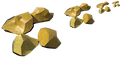
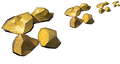
Icone de la monazite : composition G apres critique independante (30/10)
Matieres de la famille du gisement corrige (or_v, ambre a la place du soufre, miel_v),
bord sombre des silhouettes (--bord 5) et niveaux remis sur le vanilla (--niveaux 0.09,0.82) :
5e centile 0,16 -> 0,08, ecart-type 0,210 -> 0,223 (fer 0,233). Couverture inchangee (0,48).
Critique : fo-logs/2026-10-30_RETOUR-MATIN/ICONES-MINERAIS/monazite/CRITIQUE.md

diff --git a/tools/render/pieces/ressources/icones_monazite.py b/tools/render/pieces/ressources/icones_monazite.py
@@ -76,13 +76,48 @@ def avec_liseré(main, ao, px):
     return P.over(main, fr)
 
 
-def post(compo, travail, sortie, fill, liseré=3):
+def avec_bord(main, px, force):
+    """Bord sombre des silhouettes (critique de l'icône, 30/10 vers 12 h) : les morceaux des icônes vanilla ont un bord
+    extérieur sombre (5e centile de luminance 0,08 à 0,11 ; F : 0,15) qui les détache de la fente grise à 32 px ; les
+    rognons de F fondaient par leurs bords éclairés (haut, gauche). Sur `px` pixels HR depuis le bord de l'alpha, la
+    couleur est assombrie d'au plus `force` (en lumière linéaire), en rampe ; l'alpha ne change pas."""
+    a8 = Image.fromarray((np.clip(main[..., 3], 0, 1) * 255).astype(np.uint8), "L")
+    rampe = np.zeros(main.shape[:2])
+    for k in range(1, px + 1):
+        er = np.asarray(a8.filter(ImageFilter.MinFilter(2 * k + 1))).astype(np.float64) / 255.0
+        rampe += (main[..., 3] - er).clip(0, 1) / px
+    f = 1.0 - force * rampe.clip(0, 1)
+    lin = P.srgb_to_lin(main[..., :3]) * f[..., None]
+    return np.concatenate([P.lin_to_srgb(lin), main[..., 3:4]], -1)
+
+
+def avec_niveaux(main, t5, t95):
+    """Niveaux de l'icône (critique, 30/10 vers 12 h 15) : les matières résineuses de G (or_v, ambre, miel_v), plus
+    sombres que l'or et le soufre de F, ont fait tomber le 95e centile de luminance de 0,80 à 0,67 (fer et cuivre
+    vanilla : 0,83 et 0,81) : un tas terne et sans reflet. Les luminances des pixels opaques (sRGB, Rec. 709) sont
+    remises en ligne de leurs 5e et 95e centiles vers `t5` et `t95` ; chaque pixel garde sa teinte (RVB × L'/L,
+    écrêté à 1, donc les reflets blanchissent comme ceux du cuivre vanilla) ; l'alpha ne change pas."""
+    a = main[..., 3]
+    rgb = main[..., :3]
+    L = rgb @ np.array([0.2126, 0.7152, 0.0722])
+    m = a > 0.5
+    p5, p95 = np.percentile(L[m], 5), np.percentile(L[m], 95)
+    L2 = (t5 + (L - p5) * (t95 - t5) / max(p95 - p5, 1e-6)).clip(0.0, 1.0)
+    k = np.where(L > 1e-6, L2 / np.maximum(L, 1e-6), 1.0)
+    return np.concatenate([(rgb * k[..., None]).clip(0.0, 1.0), main[..., 3:4]], -1)
+
+
+def post(compo, travail, sortie, fill, liseré=3, bord=(0, 0.0), niveaux=None):
     pre = os.path.join(travail, "icones-monazite-%s" % compo)
     with open(pre + "-render.json", encoding="utf-8") as f:
         info = json.load(f)
     main = np.load(pre + "-main.npy").astype(np.float64)
     if liseré and os.path.exists(pre + "-ao.npy"):
         main = avec_liseré(main, np.load(pre + "-ao.npy").astype(np.float64), liseré)
+    if bord[0] > 0 and bord[1] > 0:
+        main = avec_bord(main, bord[0], bord[1])
+    if niveaux:
+        main = avec_niveaux(main, niveaux[0], niveaux[1])
     ox, oy = info["origin_px"]
     s = int(PAS * C.PX_PER_UNIT_HR)
     os.makedirs(sortie, exist_ok=True)
@@ -98,6 +133,7 @@ def post(compo, travail, sortie, fill, liseré=3):
         "modele": "rognon du gisement M1 (gisement.roche, directions M1)",
         "echantillons": info.get("samples"), "blender": info.get("blender"),
         "secondes_blender": info.get("seconds"), "remplissage": fill, "liseré_px_hr": liseré,
+        "bord_px_hr": bord[0], "bord_force": bord[1], "niveaux_p5_p95": list(niveaux) if niveaux else None,
         "format": {"icon_size": 64, "icon_mipmaps": 4, "largeur": 120},
         "sha256": dict(sorted(sums.items())),
     }
@@ -116,12 +152,16 @@ def main():
     ap.add_argument("--remplissage", type=float, default=0.96)
     ap.add_argument("--post-seul", action="store_true")
     ap.add_argument("--lisere", type=int, default=3, help="liseré de contact gardé à N px HR des rognons (0 : aucun)")
+    ap.add_argument("--bord", type=int, default=0, help="bord sombre des silhouettes sur N px HR (0 : aucun ; G : 5)")
+    ap.add_argument("--bord-force", type=float, default=0.55)
+    ap.add_argument("--niveaux", default="", help="p5,p95 visés de la luminance des pixels opaques (G : 0.09,0.82)")
     a = ap.parse_args()
     for compo in a.compo.split(","):
         trav = os.path.join(a.travail, compo)
         if not a.post_seul:
             rendre(compo, trav, a.samples)
-        post(compo, trav, os.path.join(a.sortie, compo) if "," in a.compo else a.sortie, a.remplissage, a.lisere)
+        post(compo, trav, os.path.join(a.sortie, compo) if "," in a.compo else a.sortie, a.remplissage, a.lisere,
+             (a.bord, a.bord_force), tuple(float(v) for v in a.niveaux.split(",")) if a.niveaux else None)
 
 
 if __name__ == "__main__":

diff --git a/tools/render/pieces/ressources/icone_monazite.py b/tools/render/pieces/ressources/icone_monazite.py
@@ -96,6 +96,21 @@ COMPOS["F"] = dict(COMPOS["E"])
 COMPOS["F"]["icone"] = [(x, y * 1.30, t, m, g) for x, y, t, m, g in COMPOS["E"]["icone"]]
 COMPOS["F"]["p1"] = [(x * 1.12, y * 1.12, t, m, g) for x, y, t, m, g in COMPOS["E"]["p1"]]
 REGLAGES["F"] = REGLAGES["E"]
+# G (critique indépendante de l'icône, 30/10 vers 12 h, fo-logs/.../ICONES-MINERAIS/monazite/CRITIQUE.md) : F porte un
+# rognon « soufre » jaune citron (le plus clair, arrière droit) et aucun rognon miel ou ambre, alors que la critique du
+# gisement M1 (même matin, worktree minerai-monazite, non commitée à 12 h) retire le soufre et le brun-rouge pour UNE
+# famille or-miel-ambre à éclat résineux (rugosité 0,24 à 0,28). Mêmes positions, tailles et graines que F (même
+# géométrie) ; seules les matières changent : or_v / ambre / miel_v, copiées ici (MAT_ICONE) pour ne pas dépendre de
+# l'état non commité de directions.py. Le miel franc reste hors de l'icône (32 px : blende, bauxite) ; l'ambre, entre
+# l'or et le miel, donne la profondeur sans tirer vers le rouille.
+MAT_ICONE = {
+    "monazite_or_v": dict(color=(0.62, 0.40, 0.035), rough=0.24, met=0.0, grain=0.22, gscale=36.0, dirt=0.3),
+    "monazite_miel_v": dict(color=(0.50, 0.25, 0.040), rough=0.26, met=0.0, grain=0.25, gscale=36.0, dirt=0.35),
+    "monazite_ambre": dict(color=(0.58, 0.33, 0.035), rough=0.24, met=0.0, grain=0.22, gscale=36.0, dirt=0.3),
+}
+_VERS_G = {"monazite_or": "monazite_or_v", "monazite_soufre": "monazite_ambre", "monazite_miel": "monazite_miel_v"}
+COMPOS["G"] = {k: [(x, y, t, _VERS_G.get(m, m), g) for x, y, t, m, g in v] for k, v in COMPOS["F"].items()}
+REGLAGES["G"] = REGLAGES["F"]
 ORDRE = ("icone", "p1", "p2", "p3")
 FORME = dict(aplat=0.95, n_coupes=D.ROCHE_COUPES["M1"], cassure=D.ROCHE_CASSURE["M1"], creux=D.ROCHE_CREUX["M1"],
              lisse=D.ROCHE_LISSE["M1"])
@@ -128,8 +143,9 @@ def relief(mat):
 def build(S, C, variant):
     rg = dict(REGLAGES_DEFAUT, **REGLAGES.get(variant, {}))
     mats = {}
-    for nom in sorted(D.MAT):
-        m = D.MAT[nom]
+    toutes = dict(D.MAT, **MAT_ICONE)
+    for nom in sorted(toutes):
+        m = toutes[nom]
         mats[nom] = S.mat_metal("ic_" + nom, tuple(c * rg["sombre"] for c in m["color"]), rough=m["rough"] * LUSTRE, metallic=m["met"], grain=m["grain"] * GRAIN,
                                 grain_scale=m["gscale"] / K, dirt=m["dirt"], dirt_distance=0.08 * K)
         relief(mats[nom])
